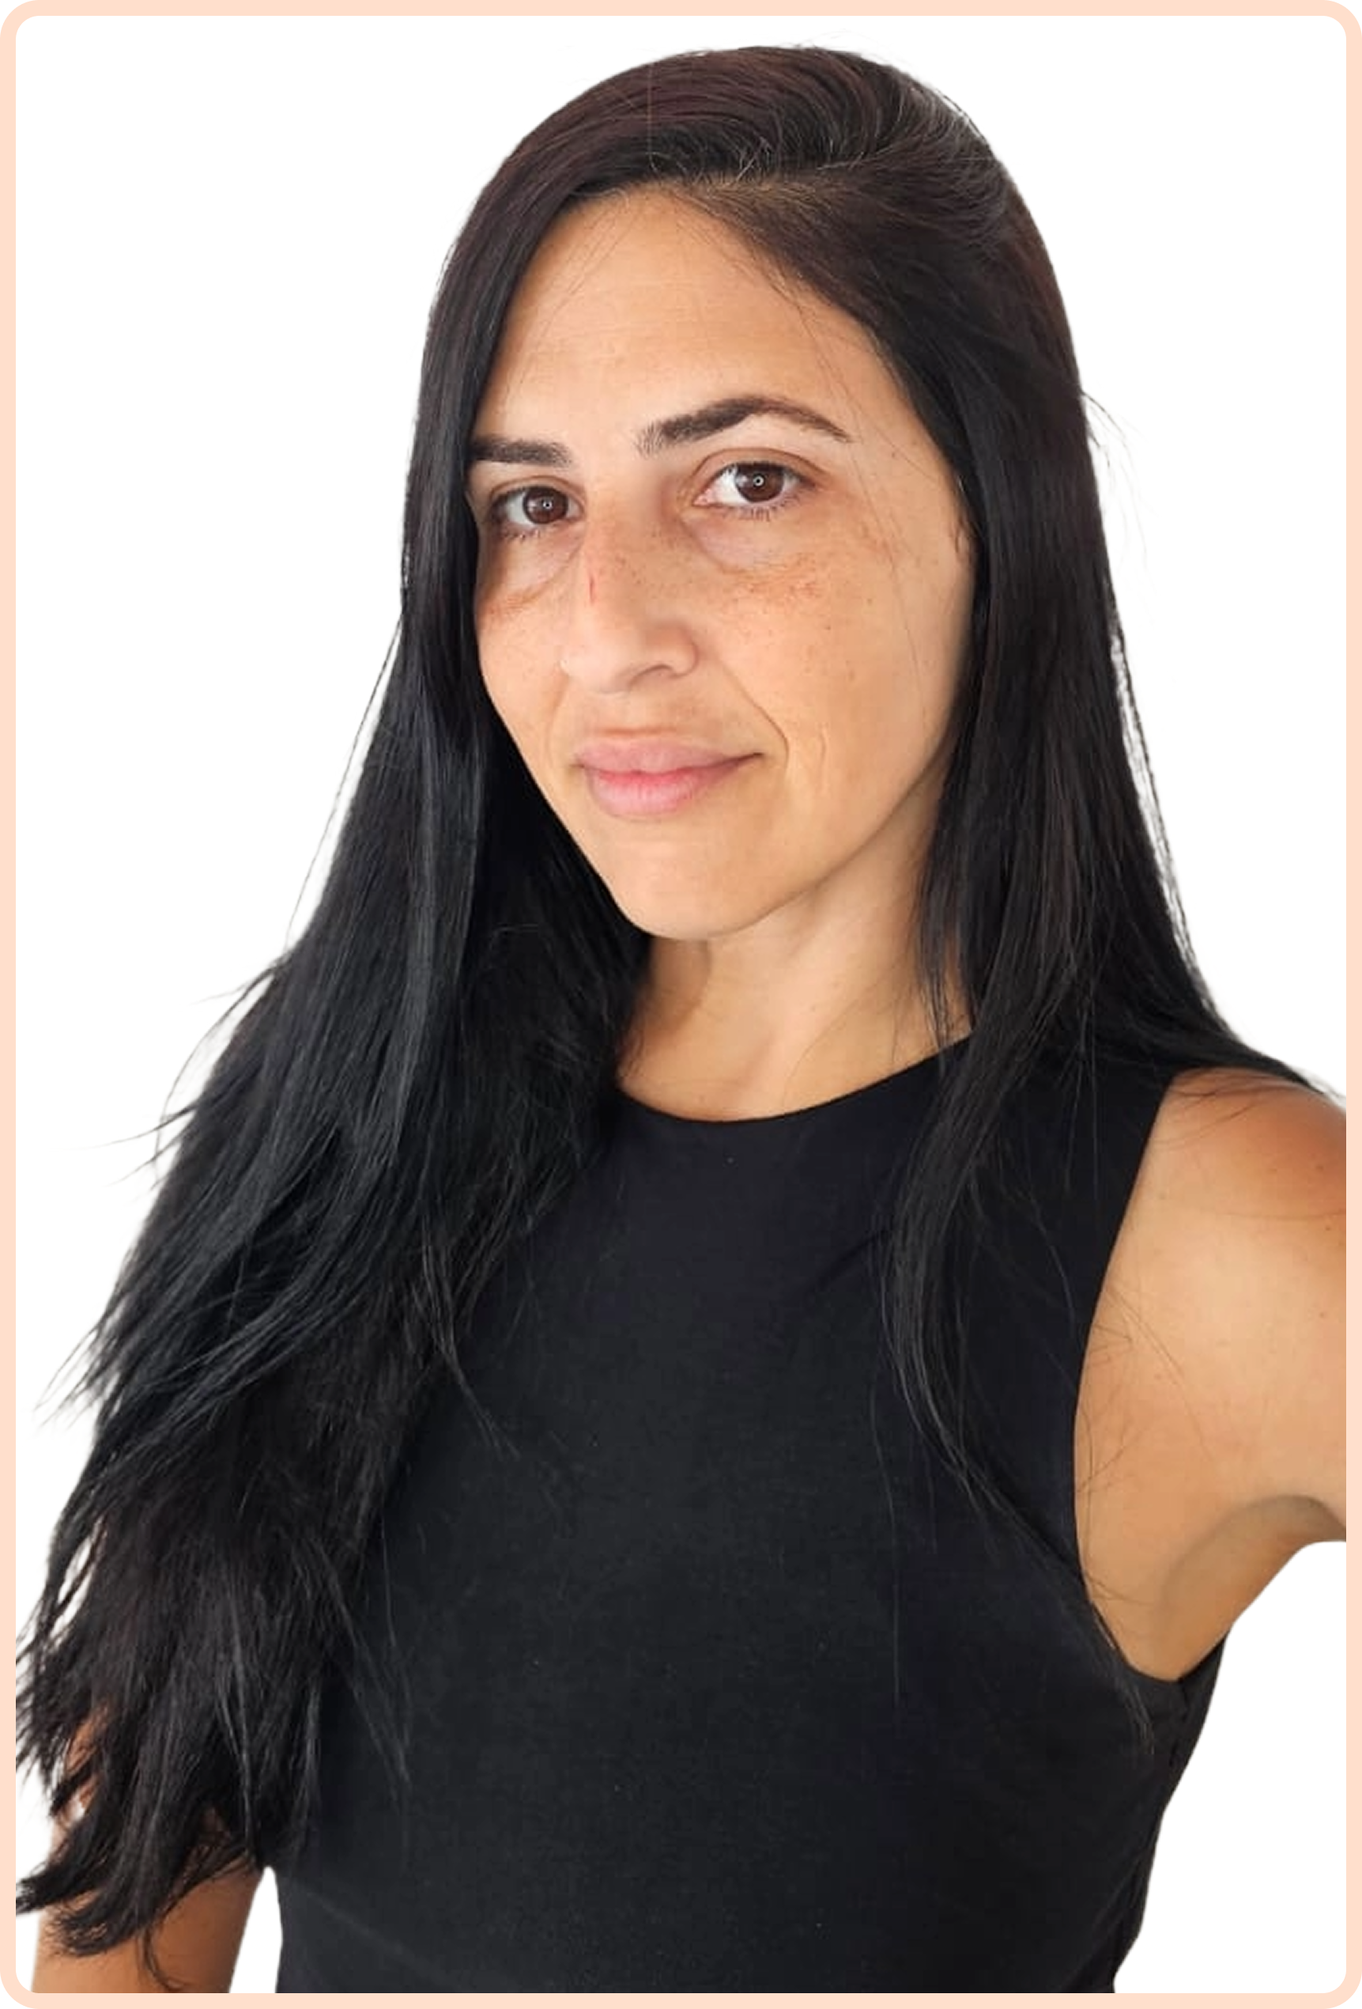
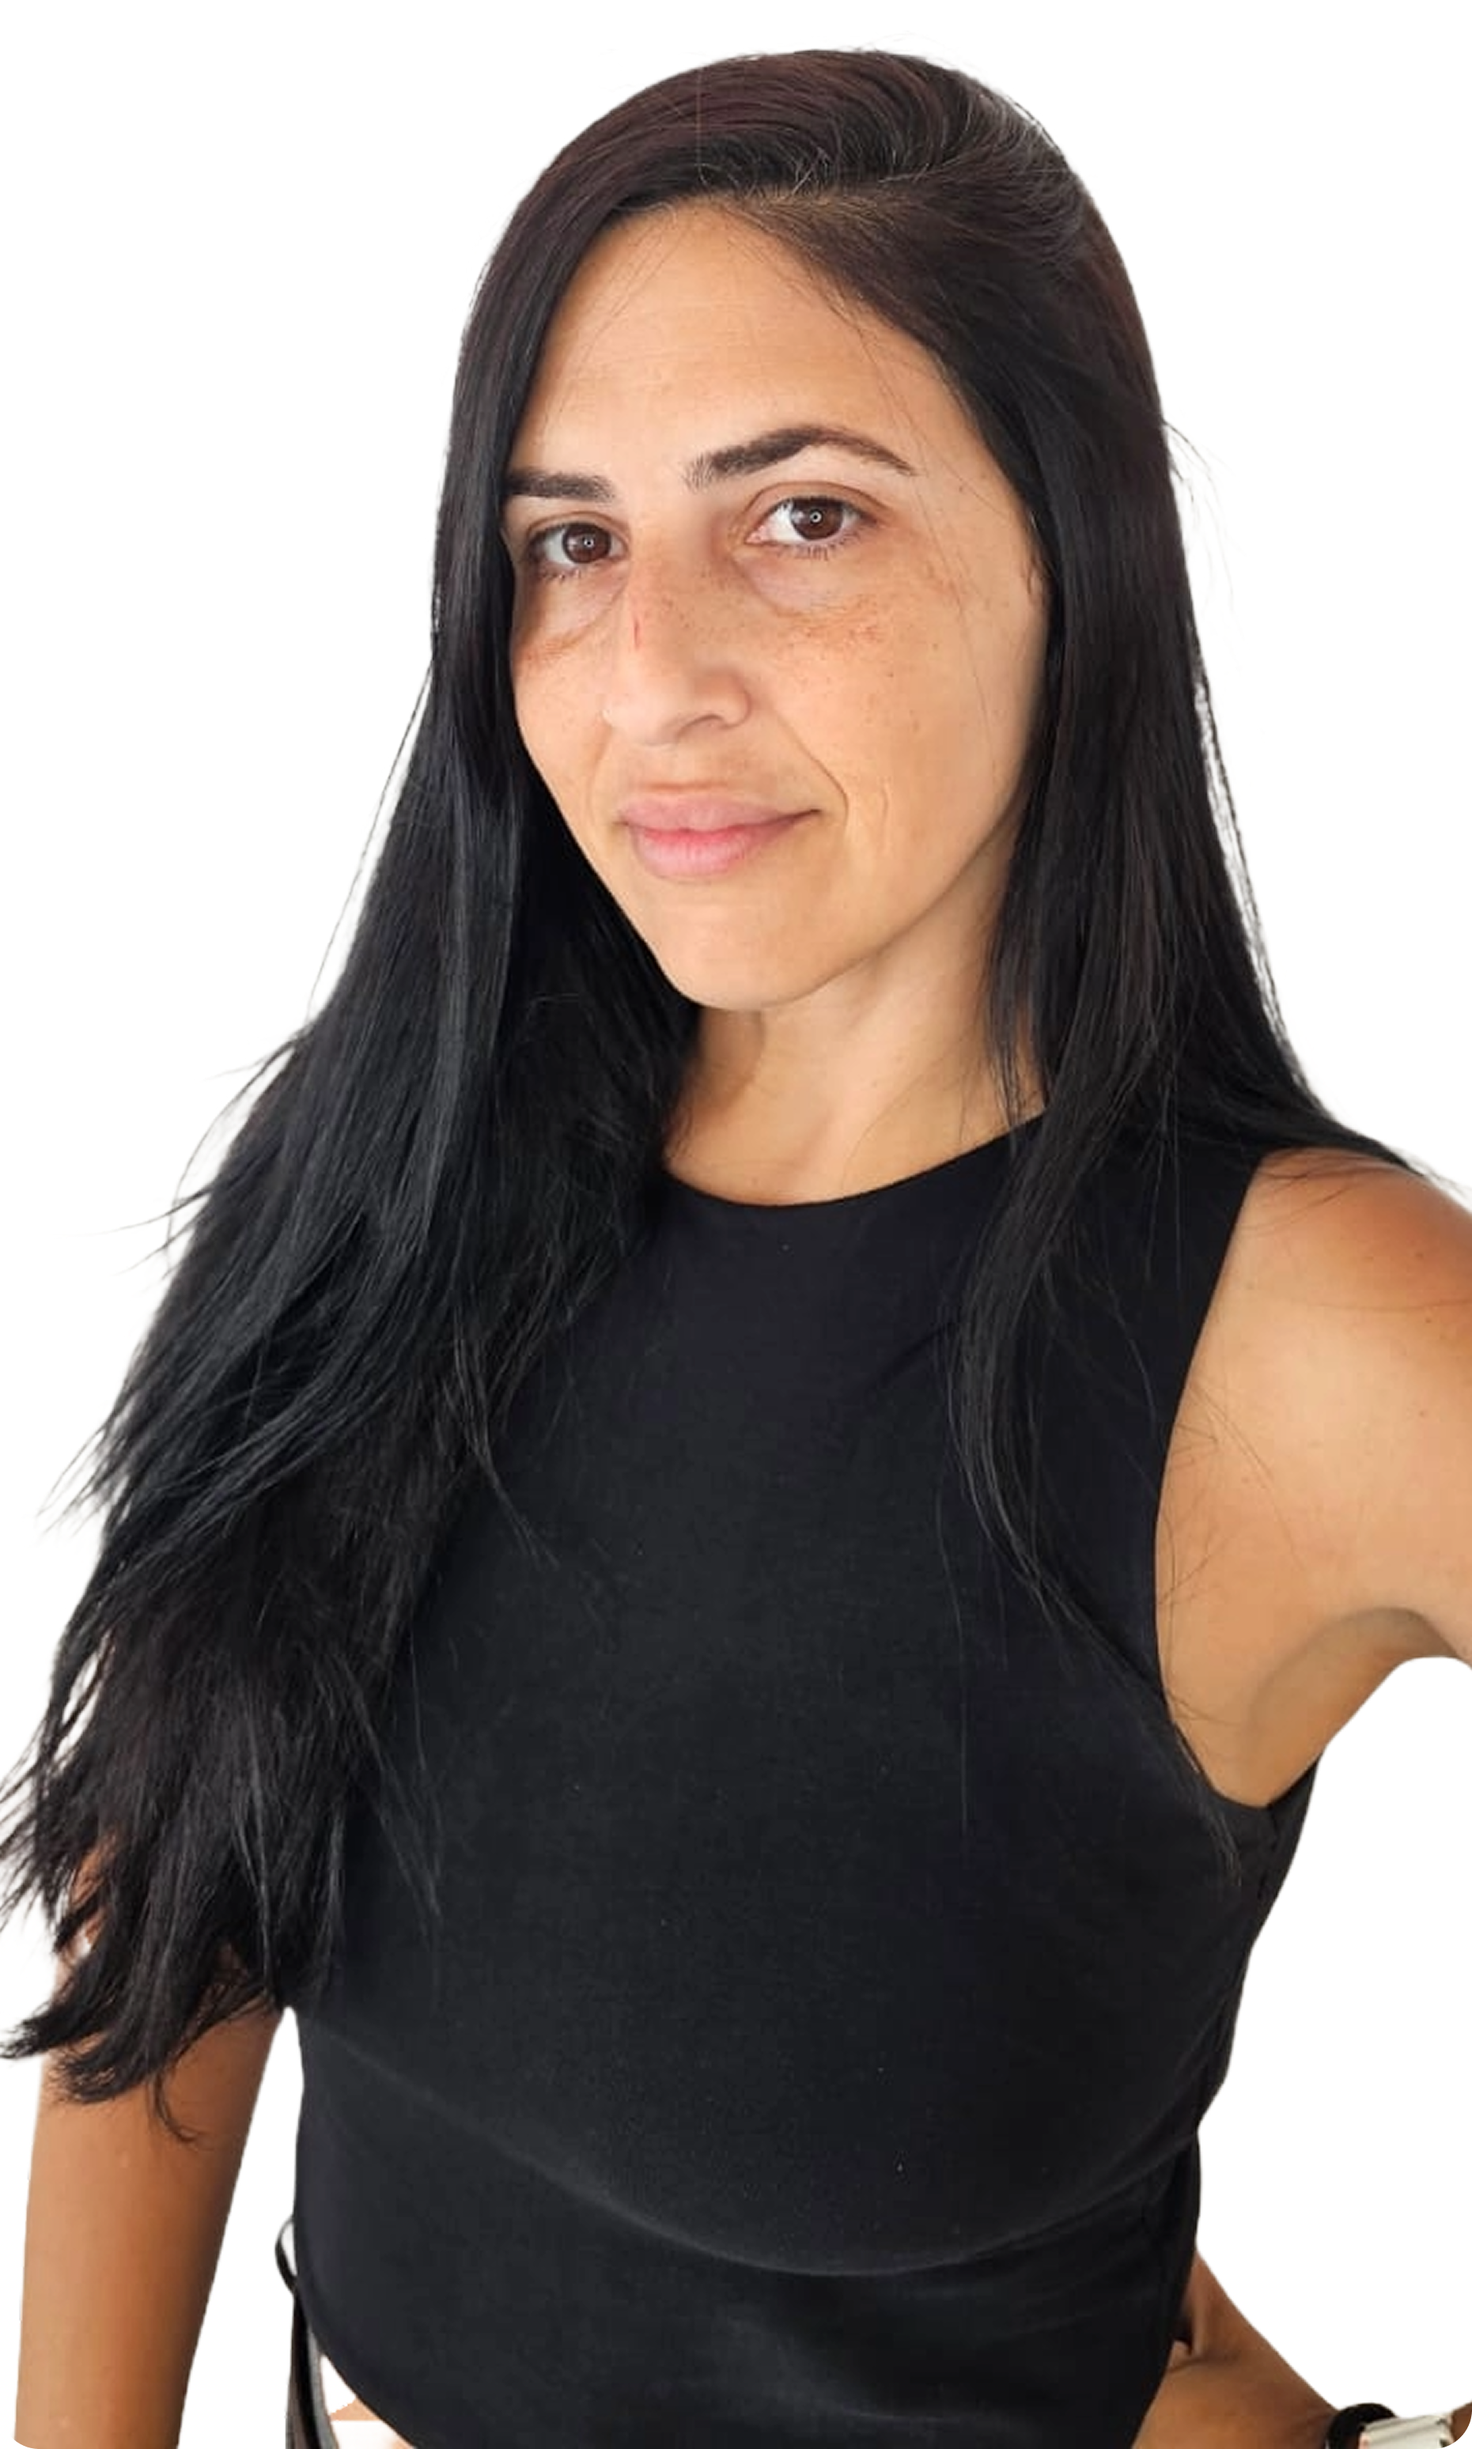
newChangesss

diff --git a/src/screens/FirstScreen.module.css b/src/screens/FirstScreen.module.css
@@ -179,7 +179,7 @@
 }
 
 .imageContainer img {
-  width: 30vw;
+  width: 25vw;
   height: auto;
   display: block;
   margin: 0 auto;
@@ -461,12 +461,12 @@
   }
   
   .imageContainer {
-    margin-bottom: 10px;
+    margin-bottom: 0;
     flex-shrink: 1;
   }
   
   .imageContainer img {
-    width: 100vw;
+   width: 70vw;
   }
   
   .imagePlaceholder,
